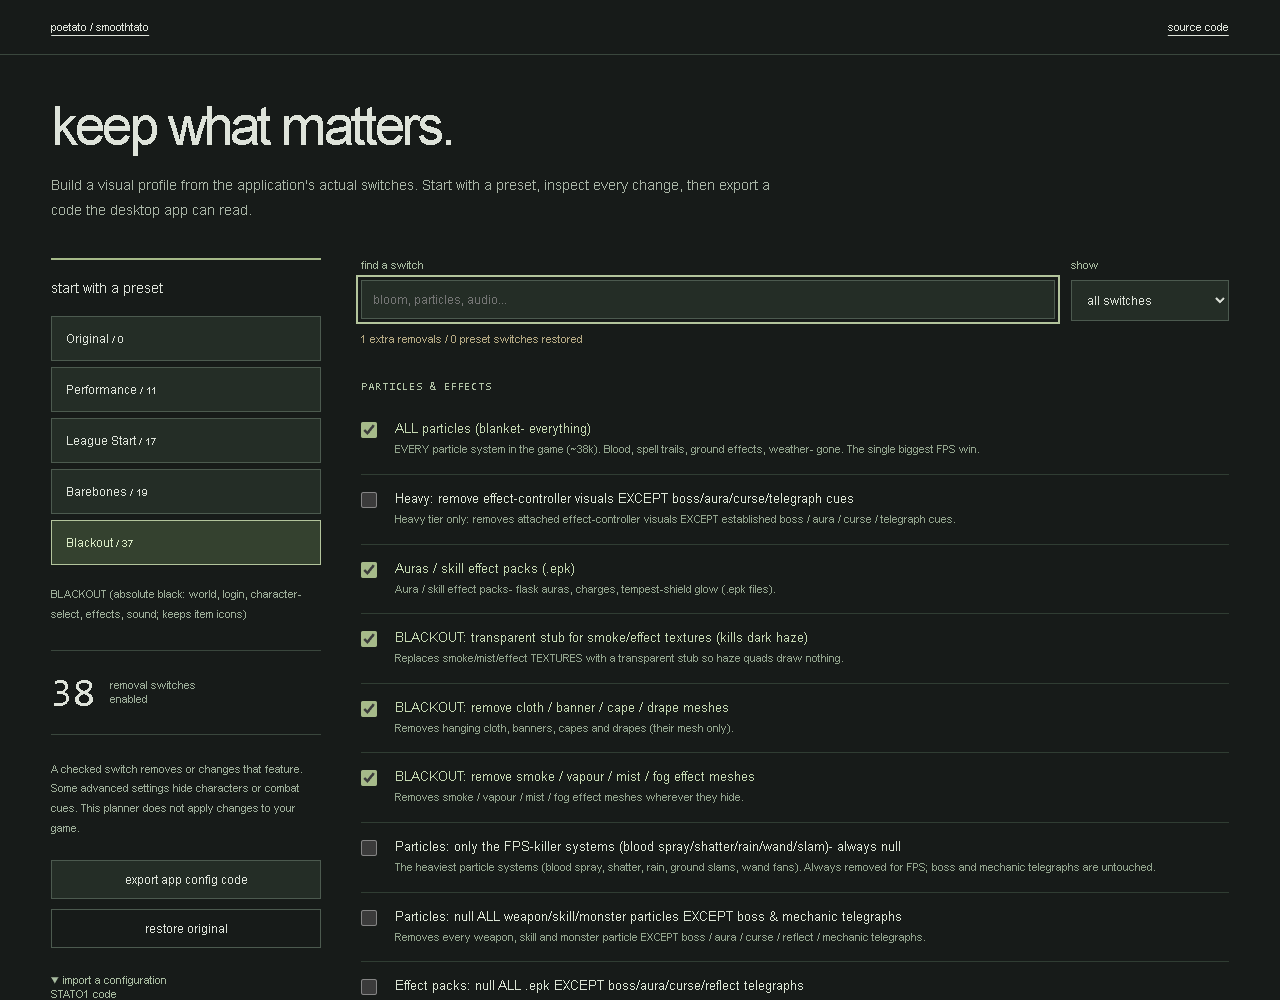
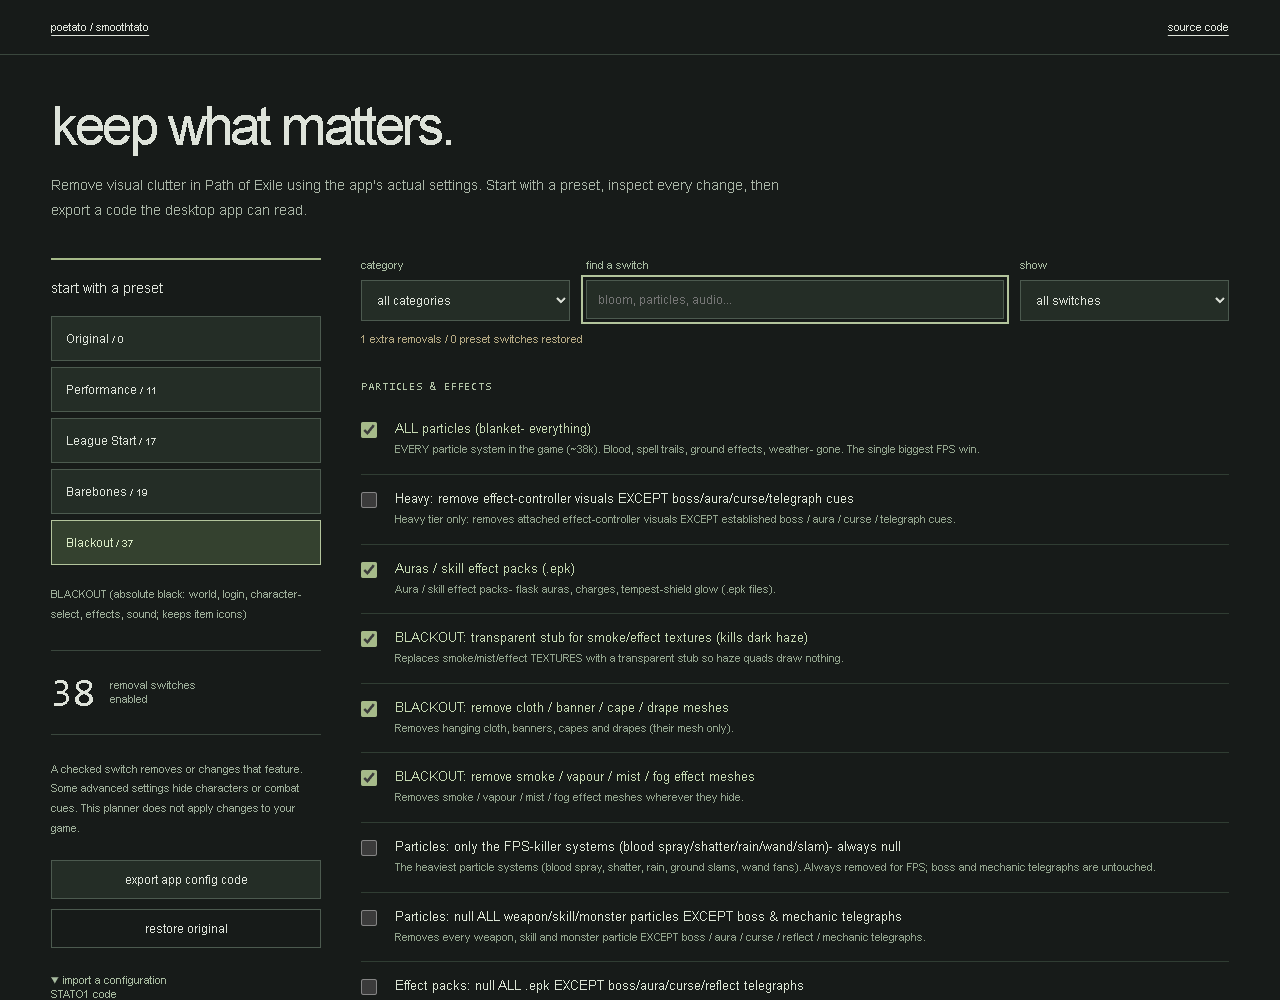
Filter visual settings by category

diff --git a/examples/portfolio/index.html b/examples/portfolio/index.html
@@ -15,9 +15,9 @@
         <main>
             <h1>keep what matters.</h1>
             <p class="intro">
-                Build a visual profile from the application's actual switches.
-                Start with a preset, inspect every change, then export a code
-                the desktop app can read.
+                Remove visual clutter in Path of Exile using the app's actual
+                settings. Start with a preset, inspect every change, then export
+                a code the desktop app can read.
             </p>
             <div class="workspace">
                 <aside>
@@ -48,6 +48,11 @@
                 </aside>
                 <section>
                     <div class="search-row">
+                        <label
+                            >category<select id="group">
+                                <option value="">all categories</option>
+                            </select></label
+                        >
                         <label
                             >find a switch<input
                                 id="search"

diff --git a/examples/portfolio/style.css b/examples/portfolio/style.css
@@ -226,3 +226,23 @@ footer {
         font-size: 11px;
     }
 }
+
+.search-row {
+    display: grid;
+    grid-template-columns: 1fr 2fr 1fr;
+}
+.search-row label:first-child {
+    flex: initial;
+}
+.search-row select {
+    width: 100%;
+}
+@media (max-width: 600px) {
+    .search-row {
+        grid-template-columns: 1fr 1fr;
+    }
+    .search-row label:nth-child(2) {
+        grid-row: 1;
+        grid-column: 1/-1;
+    }
+}

diff --git a/tools/browser_audit.py b/tools/browser_audit.py
@@ -40,6 +40,11 @@ try:
         page.screenshot(path=str(ROOT/'examples/portfolio/preview.png'))
         page.set_viewport_size({'width':390,'height':844})
         assert page.evaluate('document.documentElement.scrollWidth<=innerWidth+1'),'mobile overflow'
+        group=page.locator('#group option').nth(1).inner_text()
+        page.locator('#search').fill('')
+        page.locator('#filter').select_option('all')
+        page.locator('#group').select_option(label=group)
+        assert page.locator('.group-title').count()==1
         assert not errors,errors
         print('PASS: categories, real presets, custom edits, app-code roundtrip, filters and mobile')
         browser.close()
